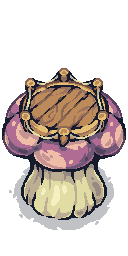
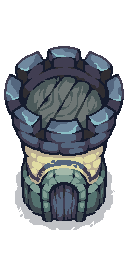
Reserve mushroom tower for gnomes and use dark stone tower for imps

diff --git a/ASSETS.md b/ASSETS.md
@@ -28,6 +28,8 @@ Les sources approuvées sont conservées dans `art-source/menu/`. `scripts/compo
 
 ## Créatures jouables
 
+La **Tour des braises** des imps utilise le PNG original `Tiny Swords (Free Pack)/Buildings/Black Buildings/Tower.png`, sans retouche, intégré sous `imp-sanctum.png`. La tour champignon `Enemy Pack/Extra/Gnome Buildings/Gnome Tower.png` est réservée aux gnomes à la demande de l’utilisateur et conservée dans `art-source/gnomes/`, hors du build distribué.
+
 | Rôle        | Personnage original | Séquences                            |
 | ----------- | ------------------- | ------------------------------------ |
 | Bâtisseur   | Torch Goblin        | Idle, Run ; Attack au bestiaire      |

diff --git a/art-source/gnomes/README.md b/art-source/gnomes/README.md
@@ -1,0 +1,5 @@
+# Bâtiments réservés aux gnomes
+
+`gnome-tower.png` est le PNG original `Enemy Pack/Extra/Gnome Buildings/Gnome Tower.png`, fourni par l’utilisateur avec Tiny Swords (Enemy Pack).
+
+À sa demande, cette tour champignon est réservée aux gnomes. Ne pas l’utiliser pour les imps ou une autre créature. Elle n’est pas incluse dans le site distribué tant que les gnomes n’ont pas leur bâtiment en jeu.
